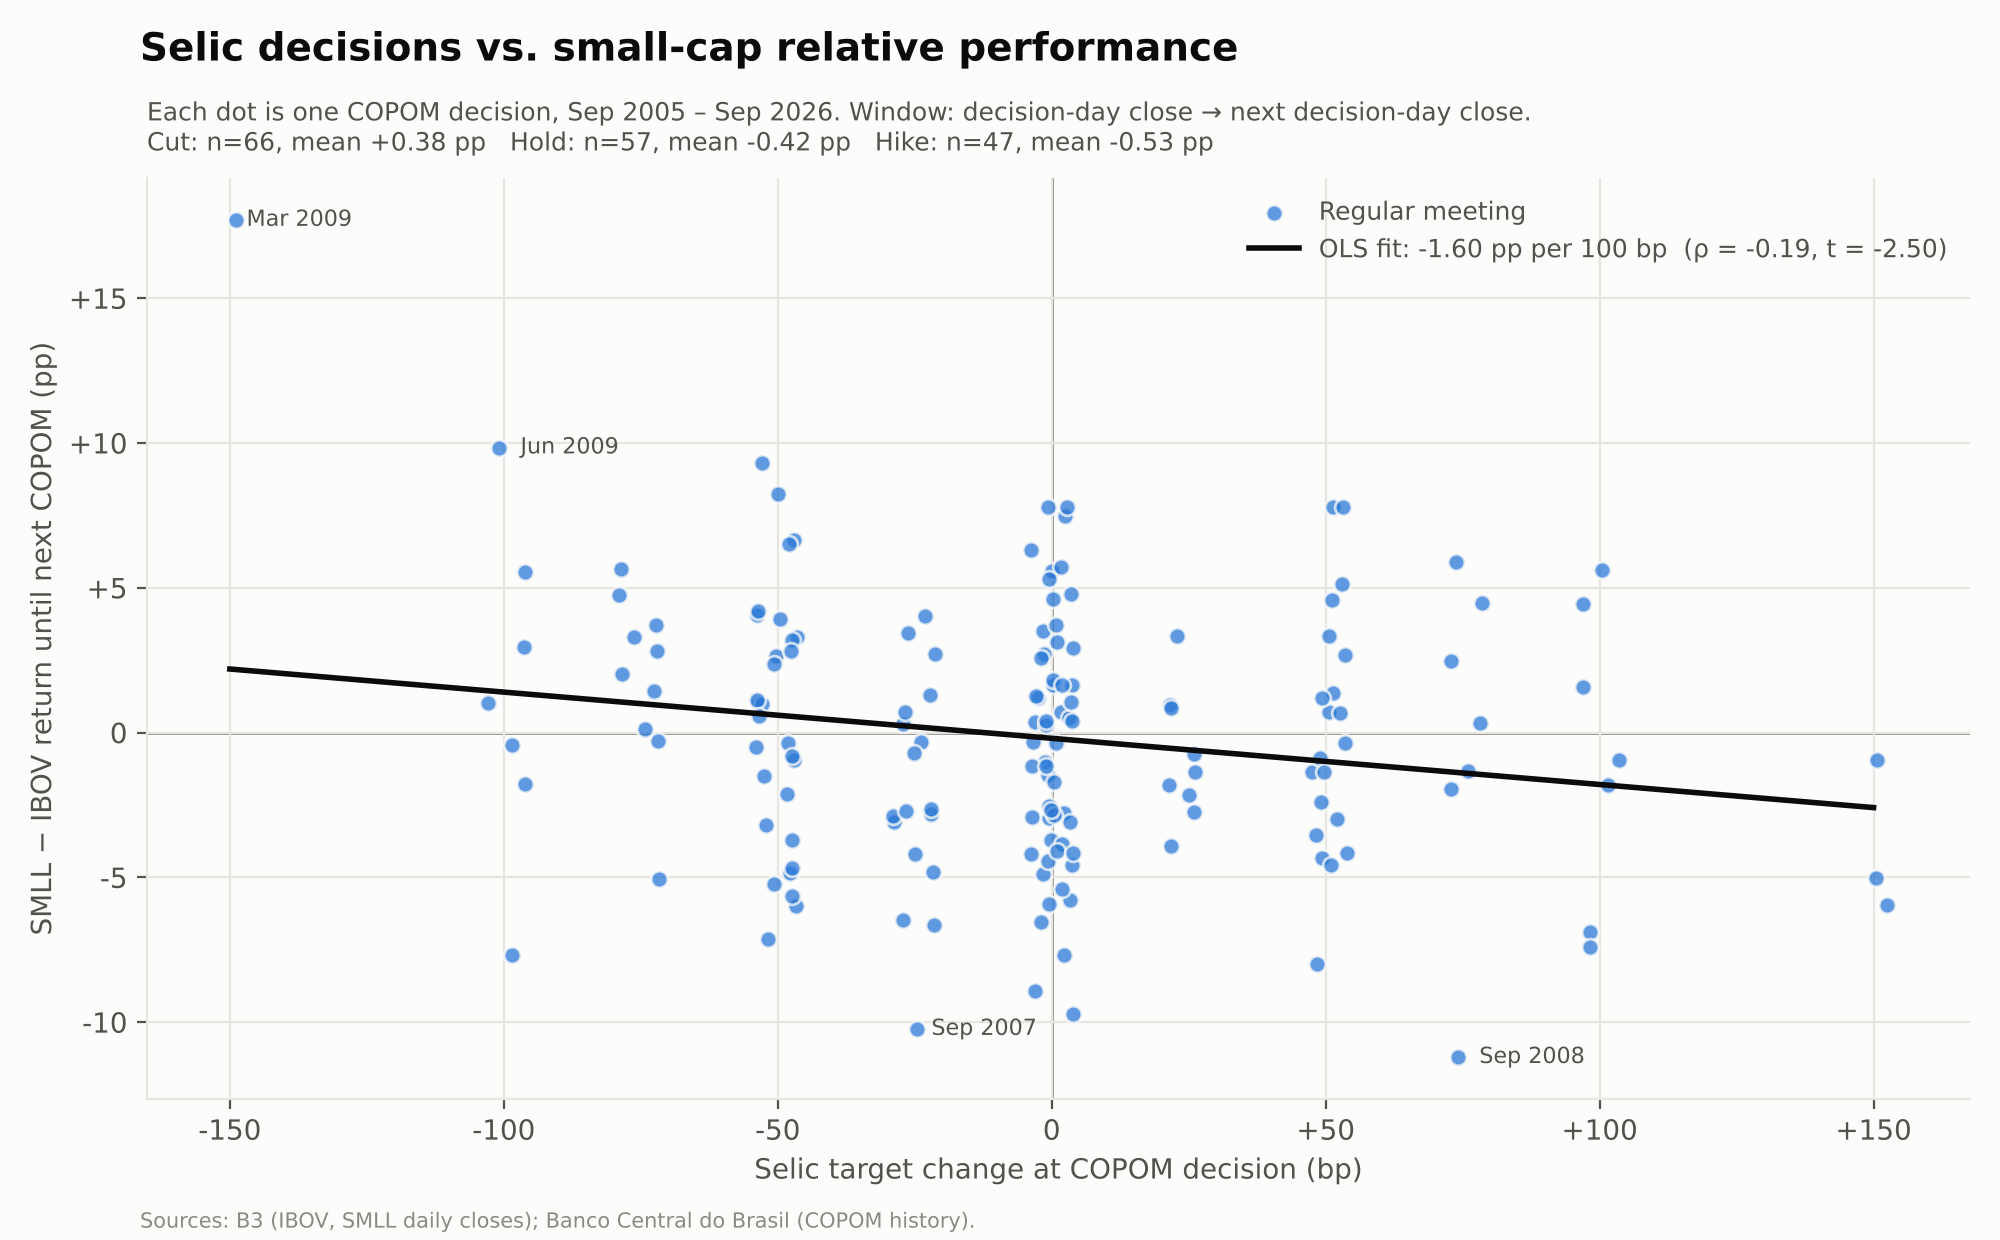
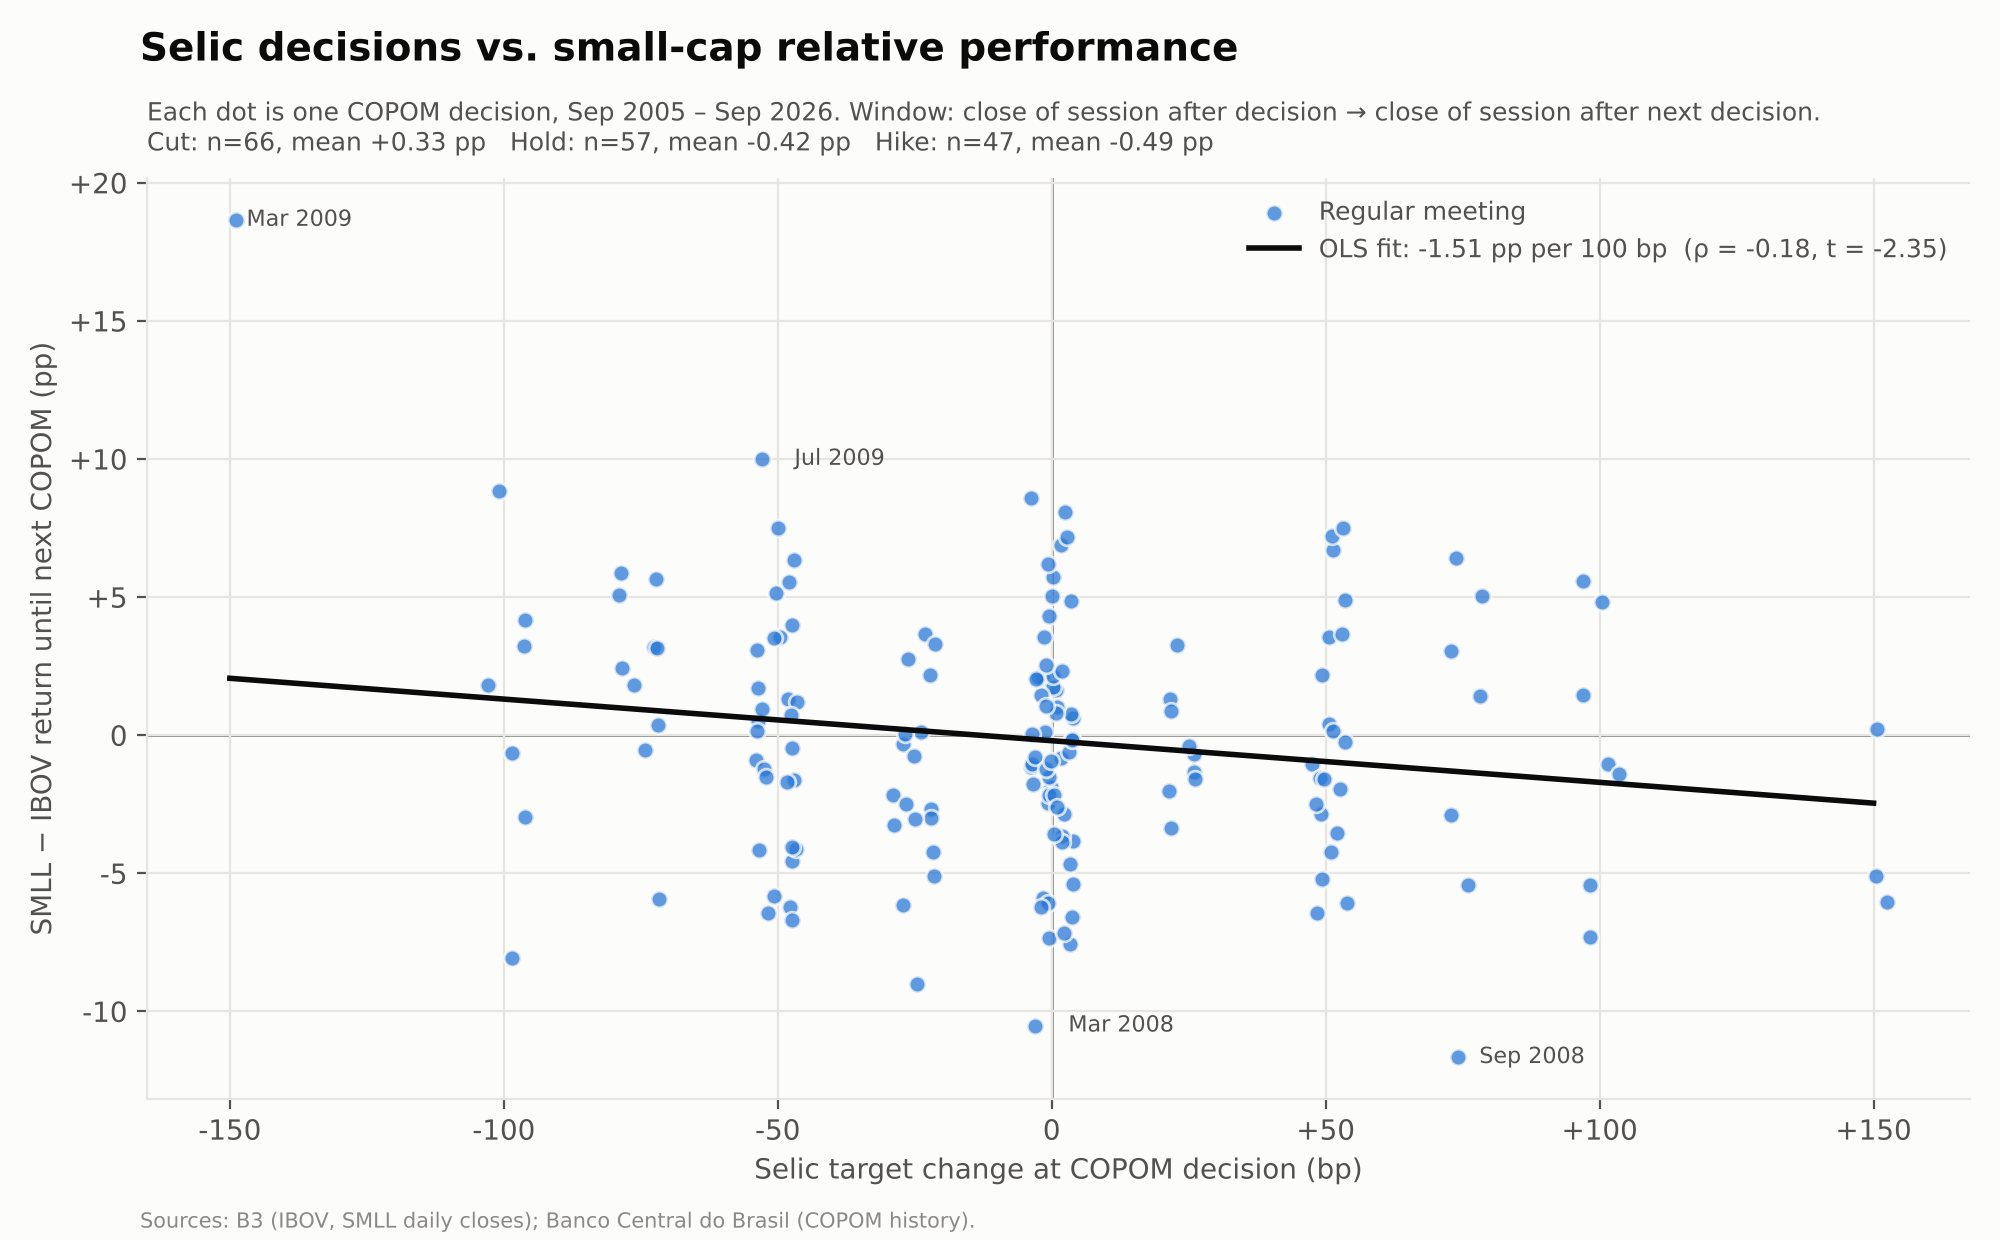
Shift COPOM return window by one trading session
Decisions are announced after the B3 close, so the window now starts at the
close of the first session after the decision and ends at the close of the
first session after the next decision.

Claude-Session: https://claude.ai/code/session_01N3abmyKdctkUukS9BHxngQ

diff --git a/copom_smll/plot_copom_smll.py b/copom_smll/plot_copom_smll.py
@@ -1,8 +1,10 @@
 """
 Selic-target decision delta vs. SMLL-minus-IBOV return until the next COPOM.
 
-Window: COPOM decisions are announced after the B3 close, so the window runs
-from the close of decision day t to the close of the next decision day t+1.
+Window: COPOM decisions are announced after the B3 close, so they are only
+tradable on the next session. The window is shifted by one trading day: it runs
+from the close of the first session after decision k to the close of the first
+session after decision k+1.
 Relative return = SMLL return - IBOV return over that window (simple returns).
 """
 from pathlib import Path
@@ -19,14 +21,17 @@ copom = pd.read_csv(DATA / "copom_decisions.csv", parse_dates=["date"])
 copom = copom[copom["date"] >= px.index[0]].reset_index(drop=True)
 
 
-def close_on_or_before(d):
-    return px.loc[:d].iloc[-1]
+def close_next_session(d):
+    """Close of the first trading session strictly after date d."""
+    return px.loc[px.index > d].iloc[0]
 
 
 rows = []
 for i in range(len(copom) - 1):
     d0, d1 = copom.loc[i, "date"], copom.loc[i + 1, "date"]
-    p0, p1 = close_on_or_before(d0), close_on_or_before(d1)
+    if (px.index > d1).sum() == 0:
+        continue  # next decision not yet followed by a session
+    p0, p1 = close_next_session(d0), close_next_session(d1)
     r = p1 / p0 - 1
     rows.append({
         "meeting": copom.loc[i, "meeting"], "date": d0, "next_date": d1,
@@ -92,7 +97,7 @@ txt = "   ".join(f"{k}: n={int(r['count'])}, mean {r['mean']:+.2f} pp" for k, r 
 fig.suptitle("Selic decisions vs. small-cap relative performance", x=0.07, ha="left",
              fontsize=14, fontweight="bold", y=0.975)
 ax.set_title(f"Each dot is one COPOM decision, {ev['date'].min():%b %Y} – {ev['date'].max():%b %Y}. "
-             f"Window: decision-day close → next decision-day close.\n{txt}",
+             f"Window: close of session after decision → close of session after next decision.\n{txt}",
              loc="left", fontsize=9, color=INK2, pad=10)
 ax.legend(loc="upper right", frameon=False, fontsize=9, labelcolor=INK2)
 fig.text(0.07, 0.01, "Sources: B3 (IBOV, SMLL daily closes); Banco Central do Brasil (COPOM history).",
